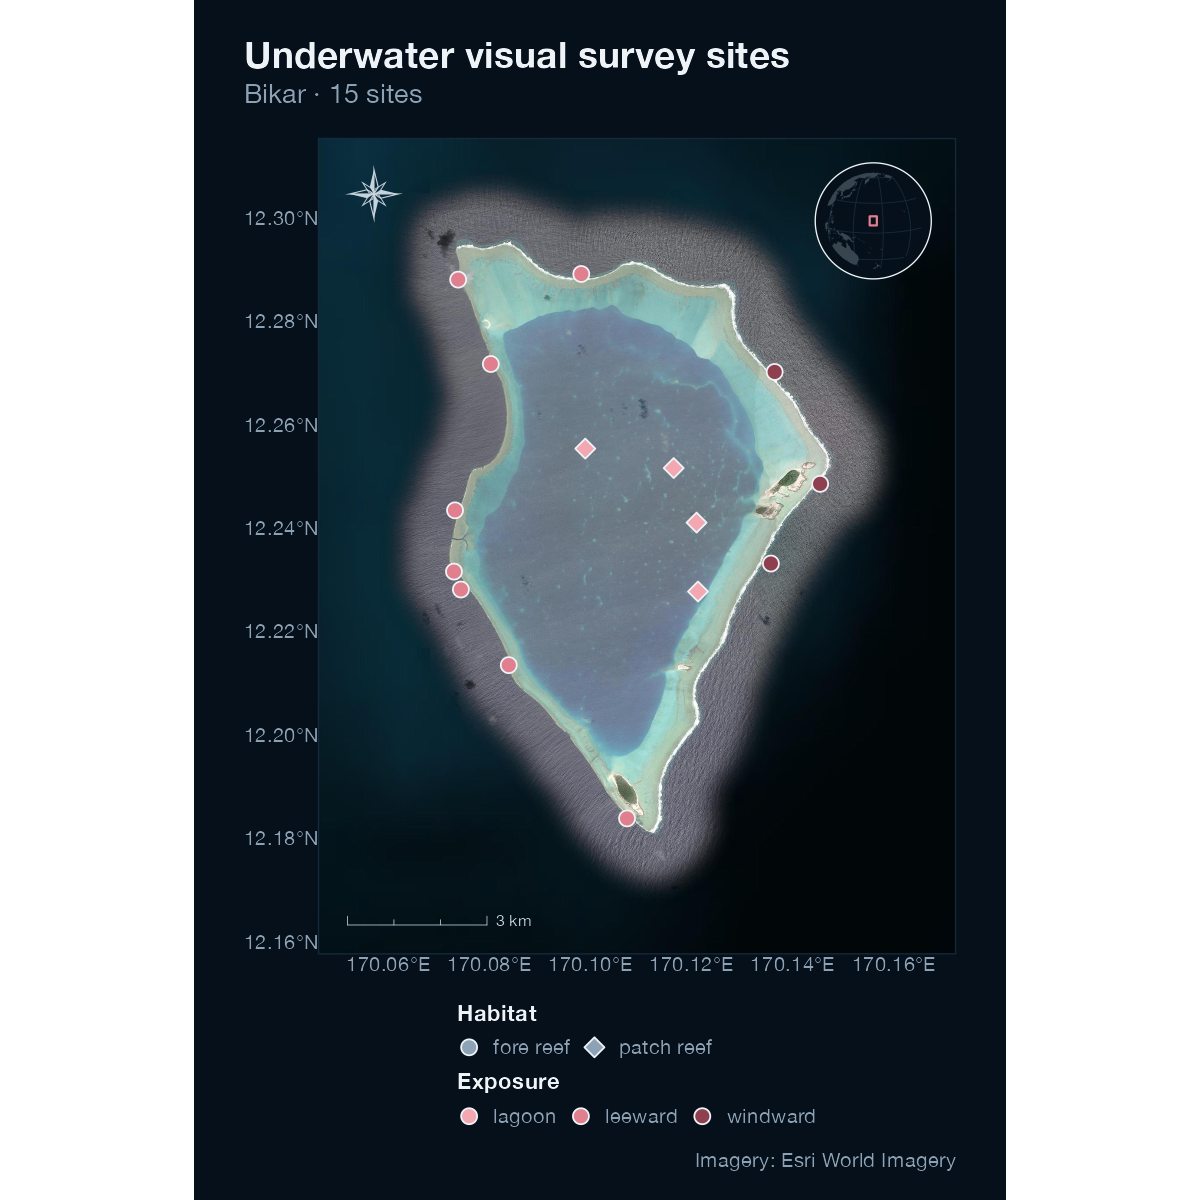
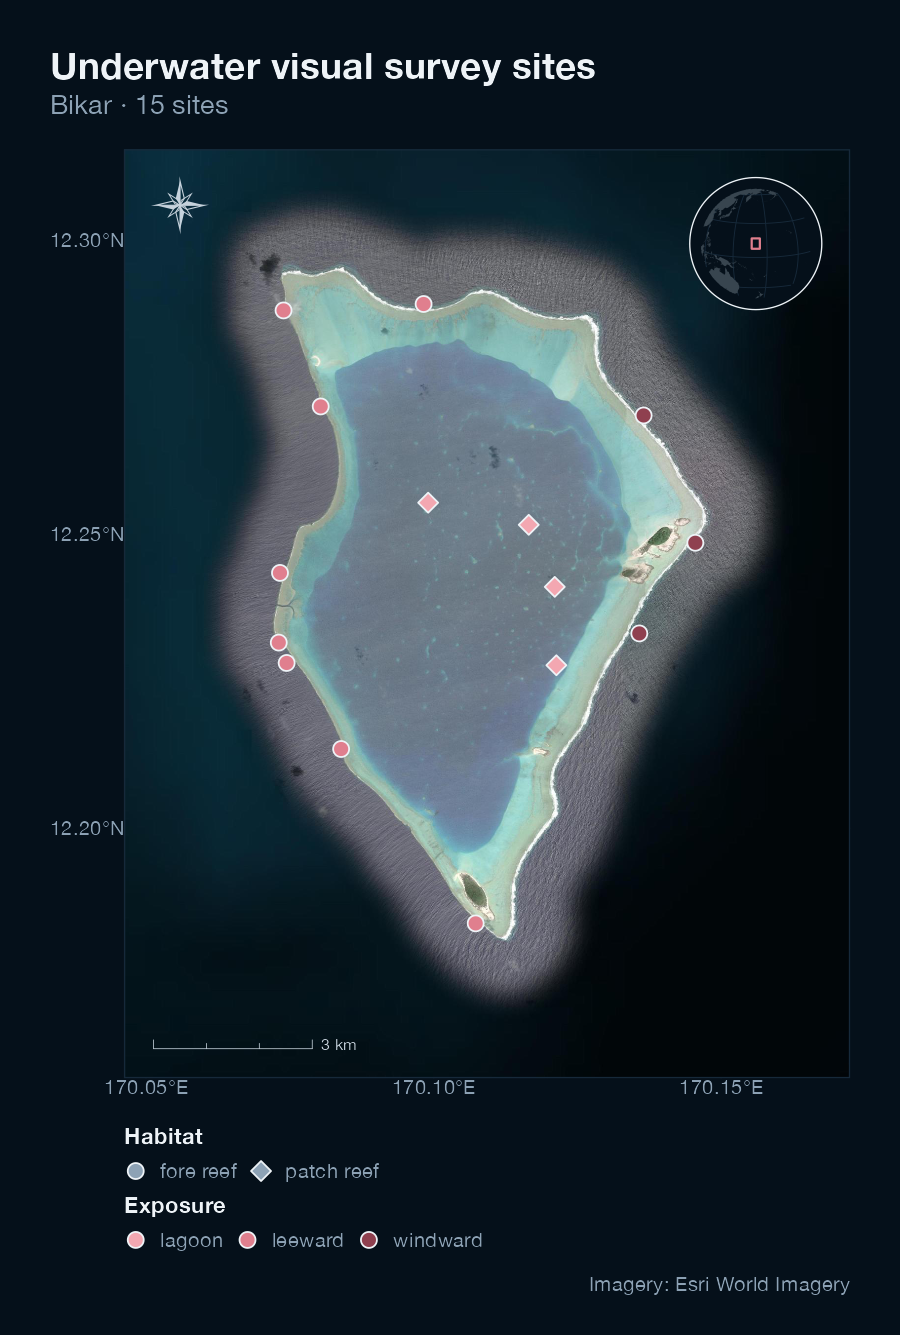
updated readme

diff --git a/docs/index.html b/docs/index.html
@@ -73,15 +73,15 @@ The science toolkit of National Geographic Pristine Seas
 </p>
 <!-- badges: start -->
 
-<p>PristineSeasR2 is built for the <a href="https://www.nationalgeographic.org/society/our-programs/pristine-seas/" class="external-link">Pristine Seas</a> research team and the collaborators and partners who work with us. Its tools carry an expedition’s data the whole way, from raw field sheets to the shared database to the report. It standardizes how we organize, check, and present expedition data, helping us reduce errors and keep our science rigorous, transparent, and reproducible.</p>
-<p>Every tool is documented, with articles on the <a href="https://pristine-seas.github.io/PristineSeasR2/articles/colour-system.html">colour system</a> and on <a href="https://pristine-seas.github.io/PristineSeasR2/articles/crw-dhw.html">thermal stress</a>, on the <a href="https://pristine-seas.github.io/PristineSeasR2/">package site</a>.</p>
+<p>PristineSeasR2 is built for the <a href="https://www.nationalgeographic.org/society/our-programs/pristine-seas/" class="external-link">Pristine Seas</a> research team and the collaborators and partners who work with us. Its tools carry an expedition’s data the whole way, from raw field sheets to the shared database to the report. It standardises how we organise, check and present expedition data, helping us reduce errors and keep our science rigorous, transparent and reproducible.</p>
+<p>Every tool is documented on the <a href="https://pristine-seas.github.io/PristineSeasR2/">package site</a>, along with articles on the <a href="https://pristine-seas.github.io/PristineSeasR2/articles/colour-system.html">colour system</a> and on <a href="https://pristine-seas.github.io/PristineSeasR2/articles/crw-dhw.html">thermal stress</a>.</p>
 <div class="section level2">
 <h2 id="installation">Installation<a class="anchor" aria-label="anchor" href="#installation"></a>
 </h2>
 <div class="sourceCode" id="cb1"><pre class="downlit sourceCode r">
 <code class="sourceCode R"><span><span class="co"># install.packages("pak")</span></span>
 <span><span class="fu">pak</span><span class="fu">::</span><span class="fu"><a href="https://pak.r-lib.org/reference/pak.html" class="external-link">pak</a></span><span class="op">(</span><span class="st">"pristine-seas/PristineSeasR2"</span><span class="op">)</span></span></code></pre></div>
-<p>That installs everything the vocabularies, themes, tables and interactive maps need. A few tools reach further and ask for more on first use:</p>
+<p>That installs everything the vocabularies, themes, tables and interactive maps need. A few tools reach outside the package and need a little more:</p>
 <ul>
 <li>
 <code><a href="reference/map_uvs_sites.html">map_uvs_sites()</a></code> draws its basemaps with <strong>maptiles</strong>, <strong>tidyterra</strong> and <strong>ggspatial</strong>, and offers to install them the first time it is called. The Mapbox basemap also needs a token in the <code>MAPBOX_TOKEN</code> environment variable.</li>
@@ -141,7 +141,7 @@ The science toolkit of National Geographic Pristine Seas
 <div class="section level2">
 <h2 id="from-field-sheet-to-report">From field sheet to report<a class="anchor" aria-label="anchor" href="#from-field-sheet-to-report"></a>
 </h2>
-<p>The tools follow an expedition’s data through its life: set up and prepare the expedition, work at sea, process and check the data, explore it, and publish figures, maps and tables that read as one family. Everything below runs on the bundled <code>rmi_2023_uvs_sites</code> and <code>rmi_2023_uvs_blt_stations</code>, the sixty underwater visual survey sites of the 2023 expedition to the northern atolls of the Marshall Islands and their fish belt-transect stations, so it can be run anywhere, with no Drive or database connection.</p>
+<p>The tools follow an expedition’s data through its life: set up and prepare the expedition, work at sea, process and check the data, explore it, and publish figures, maps and tables that read as one family. Everything below runs on the bundled <code>rmi_2023_uvs_sites</code> and <code>rmi_2023_uvs_blt_stations</code>, the sixty underwater visual survey (UVS) sites of the 2023 expedition to the northern atolls of the Marshall Islands and their fish belt-transect stations, so every example runs anywhere, with no Drive or database connection.</p>
 <div class="sourceCode" id="cb2"><pre class="downlit sourceCode r">
 <code class="sourceCode R"><span><span class="kw"><a href="https://rdrr.io/r/base/library.html" class="external-link">library</a></span><span class="op">(</span><span class="va"><a href="https://github.com/pristine-seas/PristineSeasR2" class="external-link">PristineSeasR2</a></span><span class="op">)</span></span>
 <span><span class="kw"><a href="https://rdrr.io/r/base/library.html" class="external-link">library</a></span><span class="op">(</span><span class="va"><a href="https://dplyr.tidyverse.org" class="external-link">dplyr</a></span><span class="op">)</span></span>
@@ -218,6 +218,7 @@ The science toolkit of National Geographic Pristine Seas
 <span><span class="co">#&gt; [1] "windward"  "leeward"   "lagoon"    "channel"   "sheltered" "exposed"  </span></span>
 <span><span class="co">#&gt; [7] "unknown"</span></span>
 <span></span>
+<span><span class="co"># a valid column passes silently</span></span>
 <span><span class="fu"><a href="reference/validate_vocab.html">validate_vocab</a></span><span class="op">(</span><span class="va">rmi_2023_uvs_sites</span><span class="op">$</span><span class="va">exposure</span>, <span class="st">"exposure"</span><span class="op">)</span></span></code></pre></div>
 <div class="sourceCode" id="cb10"><pre class="downlit sourceCode r">
 <code class="sourceCode R"><span><span class="fu"><a href="reference/validate_vocab.html">validate_vocab</a></span><span class="op">(</span><span class="fu"><a href="https://rdrr.io/r/base/c.html" class="external-link">c</a></span><span class="op">(</span><span class="st">"windward"</span>, <span class="st">"seaward"</span><span class="op">)</span>, <span class="st">"exposure"</span><span class="op">)</span></span>
@@ -246,7 +247,7 @@ The science toolkit of National Geographic Pristine Seas
 <div class="section level3">
 <h3 id="id_5-publish">5. Publish<a class="anchor" aria-label="anchor" href="#id_5-publish"></a>
 </h3>
-<p>Every figure, map and table draws on the same palettes and themes, so a report from any expedition reads as Pristine Seas. <code><a href="reference/theme_ps.html">theme_ps()</a></code> sets charts on warm paper and <code><a href="reference/theme_ps_map.html">theme_ps_map()</a></code> sets maps on deep water, and both share the same type, the same palettes through <code><a href="reference/scale_fill_ps.html">scale_fill_ps()</a></code>, <code><a href="reference/scale_color_ps.html">scale_color_ps()</a></code> and <code><a href="reference/scale_shape_ps.html">scale_shape_ps()</a></code>, and the same legend geometry, so they can sit side by side on a page and read as a pair. The palettes are keyed to <code>allowed_vocab</code>, so a validated column lands on its colours without a lookup.</p>
+<p>Every figure, map and table draws on the same palettes and themes, so a report from any expedition reads as Pristine Seas. <code><a href="reference/theme_ps.html">theme_ps()</a></code> sets charts on warm paper and <code><a href="reference/theme_ps_map.html">theme_ps_map()</a></code> sets maps on deep water, and both share the same typeface, the same palettes through <code><a href="reference/scale_fill_ps.html">scale_fill_ps()</a></code>, <code><a href="reference/scale_color_ps.html">scale_color_ps()</a></code> and <code><a href="reference/scale_shape_ps.html">scale_shape_ps()</a></code>, and the same legend geometry, so they can sit side by side on a page and read as a pair. The palettes are keyed to <code>allowed_vocab</code>, so a validated column lands on its colours without a lookup.</p>
 <details><summary>
 Show code
 </summary><div class="sourceCode" id="cb13"><pre class="downlit sourceCode r">
@@ -295,7 +296,7 @@ Show code
 <p>A survey site map for the report is one call. <code><a href="reference/map_uvs_sites.html">map_uvs_sites()</a></code> takes the standard sites table, fits the frame to the sites chosen, and draws them on satellite imagery with habitat as shape and exposure as fill, a compass rose, a scale bar and a locator globe, all in the house style. Here, the sites of Bikar Atoll.</p>
 <div class="sourceCode" id="cb14"><pre class="downlit sourceCode r">
 <code class="sourceCode R"><span><span class="fu"><a href="reference/map_uvs_sites.html">map_uvs_sites</a></span><span class="op">(</span><span class="va">rmi_2023_uvs_sites</span>, region <span class="op">=</span> <span class="st">"Bikar"</span><span class="op">)</span></span></code></pre></div>
-<p><img src="reference/figures/README-map-1.png" alt="" width="100%"></p>
+<p><img src="reference/figures/README-map-1.png" alt="" width="55%" style="display: block; margin: auto;"></p>
 <p>Tables follow the same idea. <code><a href="reference/gt_theme_ps.html">gt_theme_ps()</a></code> turns a summary into the house table, with optional group columns, spanners, a set-off total column and heat-filled cells. <code><a href="reference/gt_theme_ps_light.html">gt_theme_ps_light()</a></code> is its plain, compact sibling for the diagnostic tables a QA/QC check produces.</p>
 <details><summary>
 Show code
@@ -325,7 +326,7 @@ Show code
 <div class="section level2">
 <h2 id="getting-help">Getting help<a class="anchor" aria-label="anchor" href="#getting-help"></a>
 </h2>
-<p>Open an <a href="https://github.com/pristine-seas/PristineSeasR2/issues" class="external-link">issue</a> for bugs and requests. The package is developed by the Pristine Seas science team and is under active development, so the API may still change between minor versions. To cite it, run <code>citation("PristineSeasR2")</code>.</p>
+<p>Open an <a href="https://github.com/pristine-seas/PristineSeasR2/issues" class="external-link">issue</a> for bugs and requests. The package is maintained by the Pristine Seas science team and is still evolving, so the API may change between minor versions. To cite it, run <code>citation("PristineSeasR2")</code>.</p>
 <p align="center">
 <img src="reference/figures/wordmark.png" width="360" alt="National Geographic Pristine Seas"></p>
 </div>

diff --git a/README.md b/README.md
@@ -19,15 +19,16 @@ PristineSeasR2 is built for the [Pristine
 Seas](https://www.nationalgeographic.org/society/our-programs/pristine-seas/)
 research team and the collaborators and partners who work with us. Its
 tools carry an expedition’s data the whole way, from raw field sheets to
-the shared database to the report. It standardizes how we organize,
-check, and present expedition data, helping us reduce errors and keep
-our science rigorous, transparent, and reproducible.
+the shared database to the report. It standardises how we organise,
+check and present expedition data, helping us reduce errors and keep our
+science rigorous, transparent and reproducible.
 
-Every tool is documented, with articles on the [colour
+Every tool is documented on the [package
+site](https://pristine-seas.github.io/PristineSeasR2/), along with
+articles on the [colour
 system](https://pristine-seas.github.io/PristineSeasR2/articles/colour-system.html)
 and on [thermal
-stress](https://pristine-seas.github.io/PristineSeasR2/articles/crw-dhw.html),
-on the [package site](https://pristine-seas.github.io/PristineSeasR2/).
+stress](https://pristine-seas.github.io/PristineSeasR2/articles/crw-dhw.html).
 
 ## Installation
 
@@ -37,8 +38,8 @@ pak::pak("pristine-seas/PristineSeasR2")
 ```
 
 That installs everything the vocabularies, themes, tables and
-interactive maps need. A few tools reach further and ask for more on
-first use:
+interactive maps need. A few tools reach outside the package and need a
+little more:
 
 - `map_uvs_sites()` draws its basemaps with **maptiles**, **tidyterra**
   and **ggspatial**, and offers to install them the first time it is
@@ -68,10 +69,10 @@ The tools follow an expedition’s data through its life: set up and
 prepare the expedition, work at sea, process and check the data, explore
 it, and publish figures, maps and tables that read as one family.
 Everything below runs on the bundled `rmi_2023_uvs_sites` and
-`rmi_2023_uvs_blt_stations`, the sixty underwater visual survey sites of
-the 2023 expedition to the northern atolls of the Marshall Islands and
-their fish belt-transect stations, so it can be run anywhere, with no
-Drive or database connection.
+`rmi_2023_uvs_blt_stations`, the sixty underwater visual survey (UVS)
+sites of the 2023 expedition to the northern atolls of the Marshall
+Islands and their fish belt-transect stations, so every example runs
+anywhere, with no Drive or database connection.
 
 ``` r
 library(PristineSeasR2)
@@ -187,6 +188,7 @@ allowed_vocab$exposure
 #> [1] "windward"  "leeward"   "lagoon"    "channel"   "sheltered" "exposed"  
 #> [7] "unknown"
 
+# a valid column passes silently
 validate_vocab(rmi_2023_uvs_sites$exposure, "exposure")
 ```
 
@@ -241,11 +243,11 @@ the satellite crop the detection was made from.
 Every figure, map and table draws on the same palettes and themes, so a
 report from any expedition reads as Pristine Seas. `theme_ps()` sets
 charts on warm paper and `theme_ps_map()` sets maps on deep water, and
-both share the same type, the same palettes through `scale_fill_ps()`,
-`scale_color_ps()` and `scale_shape_ps()`, and the same legend geometry,
-so they can sit side by side on a page and read as a pair. The palettes
-are keyed to `allowed_vocab`, so a validated column lands on its colours
-without a lookup.
+both share the same typeface, the same palettes through
+`scale_fill_ps()`, `scale_color_ps()` and `scale_shape_ps()`, and the
+same legend geometry, so they can sit side by side on a page and read as
+a pair. The palettes are keyed to `allowed_vocab`, so a validated column
+lands on its colours without a lookup.
 
 <details>
 
@@ -312,7 +314,7 @@ Here, the sites of Bikar Atoll.
 map_uvs_sites(rmi_2023_uvs_sites, region = "Bikar")
 ```
 
-<img src="man/figures/README-map-1.png" alt="" width="100%" />
+<img src="man/figures/README-map-1.png" alt="" width="55%" style="display: block; margin: auto;" />
 
 Tables follow the same idea. `gt_theme_ps()` turns a summary into the
 house table, with optional group columns, spanners, a set-off total
@@ -359,10 +361,9 @@ greyscale reproduction.
 ## Getting help
 
 Open an [issue](https://github.com/pristine-seas/PristineSeasR2/issues)
-for bugs and requests. The package is developed by the Pristine Seas
-science team and is under active development, so the API may still
-change between minor versions. To cite it, run
-`citation("PristineSeasR2")`.
+for bugs and requests. The package is maintained by the Pristine Seas
+science team and is still evolving, so the API may change between minor
+versions. To cite it, run `citation("PristineSeasR2")`.
 
 <p align="center">
 
